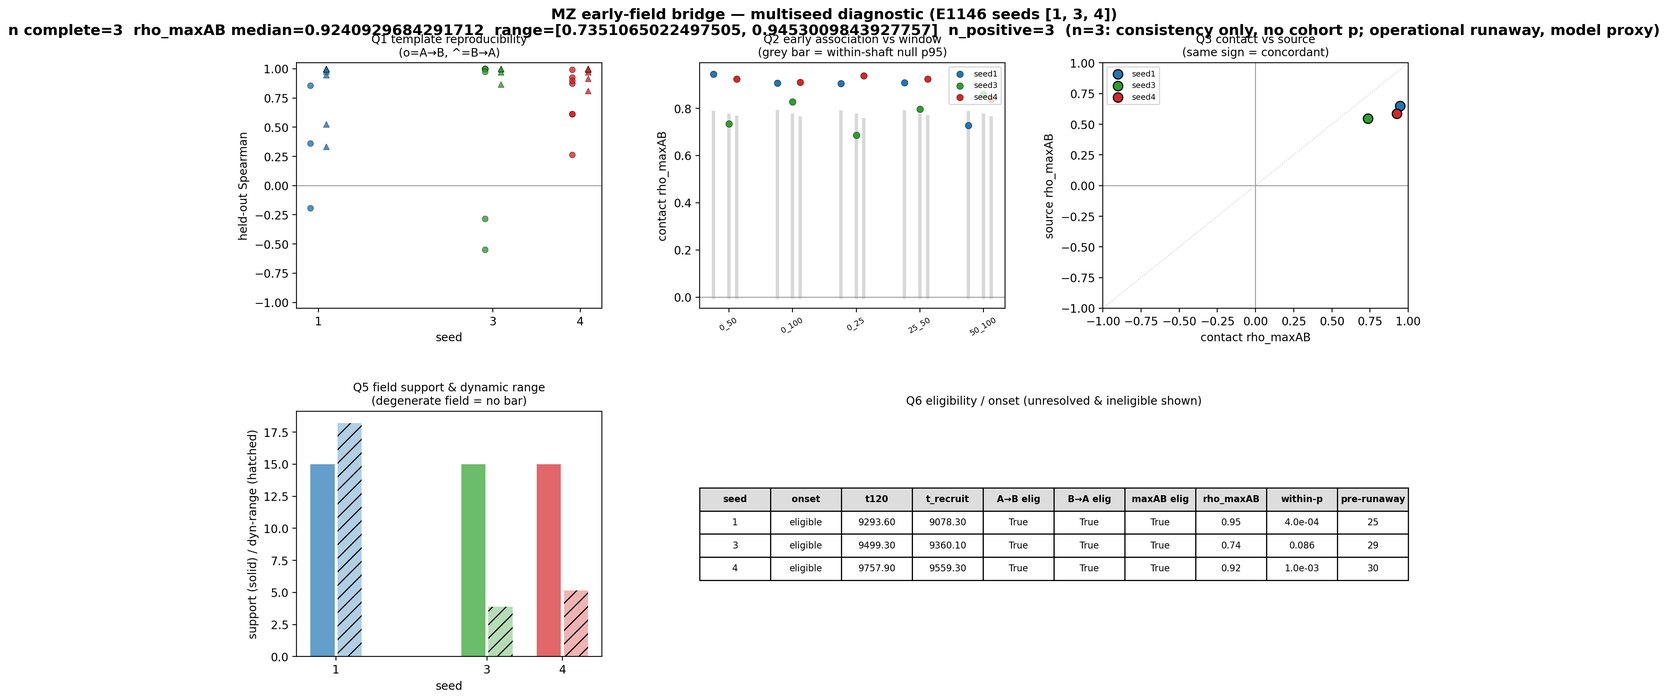
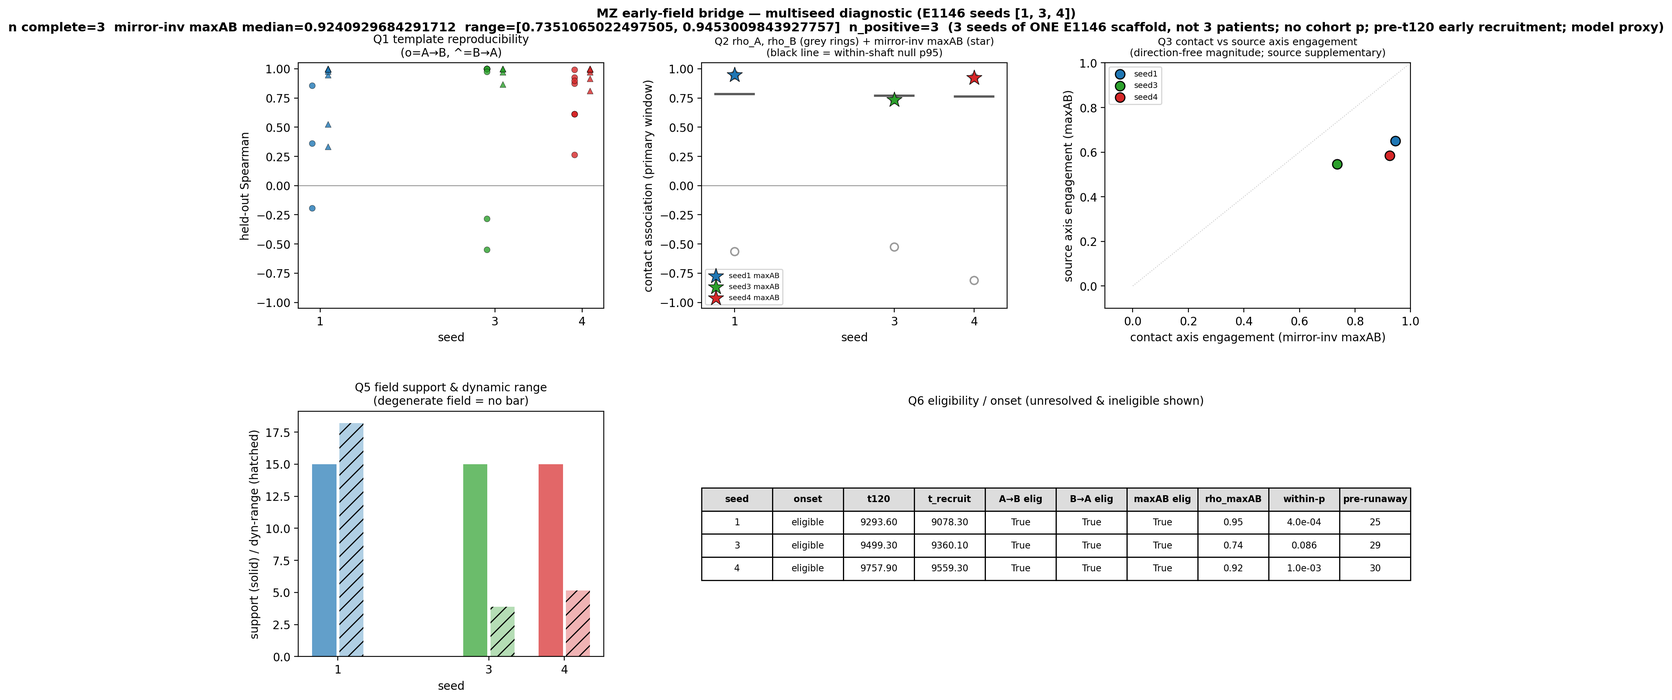
fix(topic4): correct MZ bridge framing per review
(1) Drop 'consistent B_to_A direction across seeds' as a success framing — the
scaffold is a BIDIRECTIONAL axis, per-event/per-seed direction is noise/state-
determined (A->B and B->A both legitimate), and the primary statistic is the
mirror-invariant maxAB. (2) Contact is primary; source demoted to supplementary
direction-free axis engagement (never merged into a direction-agreement claim).
(3) Rename the 0-50 ms window to pre-t120 early recruitment / transition energy
(t_recruit precedes t120 by 139-215 ms). (4) DELETE the 'not core-driven' claim
— n_kept=15 means no contact was excluded, so the direct-core test is
uninformative. (5) Mark local-tissue participation incomplete (a contact
virtual-LFP hotspot is NOT preferential local-neuron recruitment). (6)
Denominator = one E1146 scaffold x 3 seeds, not 3 patients. Figures: seed1 uses
the pre-specified first held-out event (display-only) + bidirectional-axis label
+ pre-t120 energy panel; multiseed Q2 = rho_A/rho_B (grey) + mirror-inv maxAB
(star) + within-shaft null p95 (seed3 sits at its null = weak), Q3 renamed to
direction-free axis engagement. Report/STATUS/README aligned; figures eyeballed.

diff --git a/scripts/plot_topic4_mz_early_field_bridge.py b/scripts/plot_topic4_mz_early_field_bridge.py
@@ -134,17 +134,11 @@ def plot_seed1(seed=1):
     else:
         disp_dir = elig_dirs[0] if elig_dirs else "A_to_B"
     tmpl = tm["contact_A"] if disp_dir == "A_to_B" else tm["contact_B"]
-    # representative slow-off event of the display direction (best match to the template)
-    ev_dir = [str(x) for x in so["event_dir"]]; ranks = so["event_rank_stack"]
-    disp_idx, best = None, -2.0
-    for i, dd in enumerate(ev_dir):
-        if dd != disp_dir:
-            continue
-        m = np.isfinite(tmpl) & np.isfinite(ranks[i])
-        if m.sum() >= 3 and np.ptp(tmpl[m]) > 0 and np.ptp(ranks[i][m]) > 0:
-            r = float(np.corrcoef(tmpl[m], ranks[i][m])[0, 1])
-            if r > best:
-                best, disp_idx = r, i
+    # pre-specified display example = the FIRST held-out event (odd chronological index) of the display
+    # direction. The axis is BIDIRECTIONAL; the display direction is not a fixed phenotype.
+    ev_dir = [str(x) for x in so["event_dir"]]
+    disp_events = [i for i, dd in enumerate(ev_dir) if dd == disp_dir]
+    disp_idx = disp_events[1] if len(disp_events) >= 2 else (disp_events[0] if disp_events else None)
     ev_shade = None
     if disp_idx is not None:
         ev_shade = (float(so["event_t_on"][disp_idx]), float(so["event_t_off"][disp_idx]) + 40.0)
@@ -158,7 +152,7 @@ def plot_seed1(seed=1):
     ax_so = fig.add_subplot(gs[0, :])
     _plot_trace(ax_so, so["lfp_trace"], so["times"], names,
                 "slow-off — interictal template source (30-80 Hz)",
-                shade=ev_shade, shade_label="display event window")
+                shade=ev_shade, shade_label="held-out event #1 (display-only)")
     if ev_shade:
         ax_so.legend(loc="upper right", fontsize=7, framealpha=0.9)
     ax_na = fig.add_subplot(gs[1, :])
@@ -170,18 +164,19 @@ def plot_seed1(seed=1):
     ax_na.legend(loc="upper left", fontsize=7, framealpha=0.9)
     ax_t = fig.add_subplot(gs[2, 0])
     lab = "TA" if disp_dir == "A_to_B" else "TB"
-    _plot_field(ax_t, pts, tmpl, names, f"{lab} interictal event order", "viridis",
+    _plot_field(ax_t, pts, tmpl, names, f"interictal order (display dir {lab}, bidirectional axis)", "viridis",
                 "contact rank (early->late)", src_pt=src_pt, snk_pt=snk_pt)
     ax_e = fig.add_subplot(gs[2, 1])
-    _plot_field(ax_e, pts, np.asarray(energy, float), names, "early runaway energy (0-50 ms)",
+    _plot_field(ax_e, pts, np.asarray(energy, float), names, "pre-t120 early recruitment energy (0-50 ms)",
                 "Blues", "virtual-LFP energy", src_pt=src_pt, snk_pt=snk_pt)
 
     mx = (((D["bridge_metrics"].get("by_window", {}).get(PRIMARY_WK, {}) or {}).get("contact", {})
            or {}).get("all_support", {}).get("maxab", {}) or {})
     sub = (f"onset {onset.get('status')}  t120={t120}  t_recruit={t_recruit}  "
-           f"rho_maxAB={mx.get('rho_maxab')}  (operational runaway; model proxy, not seizure)")
+           f"contact maxAB(mirror-inv)={mx.get('rho_maxab')}  "
+           f"(pre-t120 early recruitment; operational runaway, model proxy, not seizure)")
     fig.suptitle(f"MZ diagnostic — E1146 seed{seed} early-field bridge\n{sub}",
-                 fontsize=13, fontweight="bold", y=0.975)
+                 fontsize=12, fontweight="bold", y=0.975)
     os.makedirs(FIG, exist_ok=True)
     p = os.path.join(FIG, f"mz_early_field_bridge_seed{seed}.png")
     fig.savefig(p, dpi=200, bbox_inches="tight", facecolor="white")
@@ -209,30 +204,27 @@ def plot_multiseed(seeds=(1, 3, 4)):
     ax.set_xticks(list(seeds)); ax.set_xlabel("seed"); ax.set_ylabel("held-out Spearman")
     ax.set_title("Q1 template reproducibility\n(o=A→B, ^=B→A)", fontsize=10)
 
-    # Q2 early association by seed & window + within-shaft null band
+    # Q2 per-seed rho_A, rho_B (grey rings, BOTH directions) + mirror-invariant maxAB (star) + null p95
     ax = fig.add_subplot(gs[0, 1])
-    windows = [PRIMARY_WK, "early_0_100_ms", "early_0_25_ms", "early_25_50_ms", "early_50_100_ms"]
     for s in seeds:
-        bw = data[s].get("bridge_metrics", {}).get("by_window", {})
-        xs, ys, p95 = [], [], []
-        for wi, wk in enumerate(windows):
-            c = ((bw.get(wk, {}) or {}).get("contact", {}) or {}).get("all_support", {})
-            mx = (c.get("maxab") or {}); nl = (c.get("within_shaft_null") or {})
-            if mx.get("rho_maxab") is not None:
-                xs.append(wi + (s - 3) * 0.12); ys.append(mx["rho_maxab"])
-                p95.append(nl.get("null_p95"))
-        if xs:
-            ax.scatter(xs, ys, color=colors[s], s=34, label=f"seed{s}", edgecolors="k", linewidths=0.3, zorder=3)
-            for x, pv in zip(xs, p95):
-                if pv is not None:
-                    ax.plot([x, x], [0, pv], color="0.7", lw=3, alpha=0.5, zorder=1)
-    ax.axhline(0, color="0.6", lw=0.8)
-    ax.set_xticks(range(len(windows)))
-    ax.set_xticklabels([w.replace("early_", "").replace("_ms", "") for w in windows], rotation=30, fontsize=7)
-    ax.set_ylabel("contact rho_maxAB"); ax.legend(fontsize=7)
-    ax.set_title("Q2 early association vs window\n(grey bar = within-shaft null p95)", fontsize=10)
+        c = (((data[s].get("bridge_metrics", {}).get("by_window", {}).get(PRIMARY_WK, {}) or {})
+              .get("contact", {}) or {}).get("all_support", {}))
+        mx = (c.get("maxab") or {}); nl = (c.get("within_shaft_null") or {})
+        for v in (mx.get("rho_a"), mx.get("rho_b")):        # both direction associations, grey (non-winner visible)
+            if v is not None:
+                ax.scatter(s, v, s=48, facecolors="none", edgecolors="0.6", linewidths=1.3, zorder=2)
+        if mx.get("rho_maxab") is not None:                 # mirror-invariant maxAB in seed colour
+            ax.scatter(s, mx["rho_maxab"], color=colors[s], marker="*", s=200, edgecolors="k",
+                       linewidths=0.5, zorder=4, label=f"seed{s} maxAB")
+            if nl.get("null_p95") is not None:              # within-shaft null p95 (seed3 star sits at/below it)
+                ax.plot([s - 0.24, s + 0.24], [nl["null_p95"]] * 2, color="0.35", lw=2, zorder=3)
+    ax.axhline(0, color="0.6", lw=0.8); ax.set_ylim(-1.05, 1.05)
+    ax.set_xticks(list(seeds)); ax.set_xlabel("seed"); ax.set_ylabel("contact association (primary window)")
+    ax.legend(fontsize=6.5, loc="lower left")
+    ax.set_title("Q2 rho_A, rho_B (grey rings) + mirror-inv maxAB (star)\n(black line = within-shaft null p95)", fontsize=9)
 
-    # Q3 contact vs source agreement (primary window)
+    # Q3 contact vs source AXIS ENGAGEMENT magnitude (direction-free maxAB); source is supplementary,
+    # NOT merged with contact into a direction-agreement claim.
     ax = fig.add_subplot(gs[0, 2])
     for s in seeds:
         bw = data[s].get("bridge_metrics", {}).get("by_window", {}).get(PRIMARY_WK, {})
@@ -240,11 +232,11 @@ def plot_multiseed(seeds=(1, 3, 4)):
         sr = ((bw.get("source", {}) or {}).get("all_support", {}).get("maxab") or {}).get("rho_maxab")
         if c is not None and sr is not None:
             ax.scatter(c, sr, color=colors[s], s=70, label=f"seed{s}", edgecolors="k")
-    ax.axhline(0, color="0.6", lw=0.8); ax.axvline(0, color="0.6", lw=0.8)
-    ax.plot([-1, 1], [-1, 1], "0.8", lw=0.8, ls=":")
-    ax.set_xlim(-1, 1); ax.set_ylim(-1, 1)
-    ax.set_xlabel("contact rho_maxAB"); ax.set_ylabel("source rho_maxAB"); ax.legend(fontsize=7)
-    ax.set_title("Q3 contact vs source\n(same sign = concordant)", fontsize=10)
+    ax.plot([0, 1], [0, 1], "0.8", lw=0.8, ls=":")
+    ax.set_xlim(-0.1, 1); ax.set_ylim(-0.1, 1)
+    ax.set_xlabel("contact axis engagement (mirror-inv maxAB)")
+    ax.set_ylabel("source axis engagement (maxAB)"); ax.legend(fontsize=7)
+    ax.set_title("Q3 contact vs source axis engagement\n(direction-free magnitude; source supplementary)", fontsize=9)
 
     # Q5 support & dynamic range (primary window contact field)
     ax = fig.add_subplot(gs[1, 0])
@@ -288,11 +280,11 @@ def plot_multiseed(seeds=(1, 3, 4)):
 
     cs = json.load(open(os.path.join(OUT, "cohort_summary.json"))) if os.path.exists(
         os.path.join(OUT, "cohort_summary.json")) else {}
-    sub = (f"n complete={cs.get('n_seeds_complete')}  rho_maxAB median={cs.get('rho_maxab_median')}  "
+    sub = (f"n complete={cs.get('n_seeds_complete')}  mirror-inv maxAB median={cs.get('rho_maxab_median')}  "
            f"range={cs.get('rho_maxab_range')}  n_positive={cs.get('n_positive_maxab')}  "
-           f"(n=3: consistency only, no cohort p; operational runaway, model proxy)")
+           f"(3 seeds of ONE E1146 scaffold, not 3 patients; no cohort p; pre-t120 early recruitment; model proxy)")
     fig.suptitle(f"MZ early-field bridge — multiseed diagnostic (E1146 seeds {list(seeds)})\n{sub}",
-                 fontsize=13, fontweight="bold", y=0.975)
+                 fontsize=11, fontweight="bold", y=0.975)
     os.makedirs(FIG, exist_ok=True)
     p = os.path.join(FIG, "mz_early_field_bridge_multiseed.png")
     fig.savefig(p, dpi=200, bbox_inches="tight", facecolor="white")

diff --git a/docs/archive/topic4/sef_hfo/mz_early_field_bridge_2026-07-19.md b/docs/archive/topic4/sef_hfo/mz_early_field_bridge_2026-07-19.md
@@ -9,22 +9,24 @@ Overnight autonomous run. Local commits only.
 **测了什么**：同一块按「病人 E1146 电极布局」摆的模型脑组织，安静时会自己一小簇一小簇地放电，每簇事件里
 15 个虚拟电极被点亮的先后顺序跨很多次事件大致固定——这是这块组织的空间「指纹」，而且指纹有两个相反方向
 （一头先亮，或另一头先亮）。然后我们只动一个旋钮：让「抑制刹车」随强活动慢慢磨损（去抑制），同一块组织就
-慢慢滑向一次刹不住的失控放电（是模型代理，**不是临床发作**）。核心问题：失控刚点火那 0–50 毫秒能量最高的
-电极，是不是就是间期指纹里最早被点亮的那批。
+慢慢滑向一次刹不住的失控放电（是模型代理，**不是临床发作**）。核心问题：在**跨过失控阈值（t120）之前**那段
+早期招募窗里（相对 t_recruit 的 0–50 毫秒），能量最高的电极，是不是就是间期指纹里最早被点亮的那批。
 
 **怎么测的**：先只用安静段的事件搭出两个方向的「最早→最晚」排序模板，并用「留一半事件出来验证」确认它不是
 碰巧（留出的事件几乎每次都长一样，相似度约 0.99）。再拿失控点火那一瞬的能量分布跟两个模板比「先后↔能量」
 相关，取相关更高的那个方向。如果这只是电极杆几何造成的假象，把能量在同一根杆内部随机重排一万次也该达到同样
 高的相关；实测三个随机种子的真值都比随机高——其中两个明显更高（越过随机的概率约 0.0004 和 0.001），第三个
-只是勉强（约 0.09）；换成直接看神经元格子（源空间）三个种子都明显高（约 0.009–0.017）。而且这批高能量电极
-并不贴着那两个「病灶核」，去掉核附近电极后结论不变。
+只是勉强（约 0.09，弱阳性）。这是**电极层面的主结果**。换成直接看神经元格子（源空间）三个种子都明显（约
+0.009–0.017），但源空间只作**方向无关的「轴被调用」补充诊断**，不与电极合并成「跨尺度同方向」。（去核对照
+这一轮不成立：没有一个电极落在核阈值内、实际一个都没删除，所以这条检验没提供信息，**不能写成「不靠贴核」**。）
 
-**揭示了什么**：在这个模型尺度上看起来是——这块固定组织确实提供了一份可复用的空间响应模板，去抑制只是把整体
-增益推高，让失控沿着间期指纹里**同一个方向**先点燃（三个种子都指向同一方向，即使第三个种子的间期事件多数属于
-另一个方向、反而是少数派模板才对上能量）。也就是「同一支架、不同状态」在模型里说得通。但这只是「看得见相关」
-这一层，**还没到因果层**：两次仿真是同噪声重放、不是真正的状态分叉，无法区分「局部去抑制图案」和「整体增益
-上移」哪个才是原因；而且电极层面的统计强度不稳（三个种子里两个强、一个弱）。要往因果走，下一步得能把整个网络
-状态精确存档再分叉，做「原样/抹平/打乱/复位去抑制」的对照。
+**揭示了什么**：在这个模型尺度上看起来是——这块固定组织提供了一条可反复调用的**双向病理轴**，去抑制把整体
+增益推高、让早期招募能量沿这条轴的时序指纹分布；每个种子的匹配（**方向无关的 maxAB**）都是正的，但**从哪一端
+起始由噪声和当时网络状态决定，A→B 和 B→A 都是合法实现，我们不把某个固定方向在跨种子里稳定当成成功标准，也不把
+某一端当成固定发作灶**。也就是「同一支架、不同状态」在这个观测层面说得通。但这只是「看得见相关」这一层，**还没到
+因果层**：两次仿真是同噪声重放、不是真正的状态分叉，无法区分「局部去抑制图案」和「整体增益上移」哪个才是原因；
+而且电极层面的统计强度不稳（三个种子里两强一弱）。要往因果走，下一步得把整个网络状态精确存档再分叉，做「原样/
+抹平/打乱/复位去抑制」的状态匹配对照。
 
 （内部归档代号：候选 `zA_q75_tz5000`；`B_to_A` direction；`rho_maxAB`；within-shaft / toroidal-shift null；
 held-out 模板；`t_recruit`/`t120` onset；design §6–§9；completion level 4 = bridge supported diagnostic。）
@@ -107,33 +109,50 @@ configurations with all three m levels identical. No `9/9`, no `weak/mid/strong`
 ## 6. Claim boundaries (§15)
 
 Allowed if supported: a fixed patient-specific scaffold expresses reproducible interictal timing fields;
-`z`-mediated loss of inhibitory efficacy moves the same model into an operational runaway whose early energy
-field is concordant with one registered interictal direction; a model-side feasibility bridge for
-"same scaffold, different state." Forbidden: calling the runaway a clinical seizure; claiming termination /
-recovery / a full cycle; claiming `z_i` is the unique biological mechanism; claiming interictal events
-causally trigger the transition (needs event-deletion); claiming local-z causality (needs snapshot/resume);
-using Arm C as dose-response; interpreting virtual-LFP energy as clinical broadband power; choosing a
-direction/window/candidate/seed for the strongest correlation.
+`z`-mediated loss of inhibitory efficacy moves the same model into an operational runaway whose pre-t120 early
+recruitment energy field is concordant with the fixed **bidirectional** interictal timing axis (mirror-invariant
+maxAB; A→B and B→A both legitimate); a model-side observation-level feasibility bridge for "same scaffold,
+different state." Forbidden: calling the runaway a clinical seizure; claiming termination / recovery / a full
+cycle; claiming `z_i` is the unique biological mechanism; claiming interictal events causally trigger the
+transition (needs event-deletion); claiming local-z causality (needs snapshot/resume); using Arm C as
+dose-response; interpreting virtual-LFP energy as clinical broadband power; choosing a direction/window/
+candidate/seed for the strongest correlation; **claiming a fixed direction stable across seeds or a fixed
+seizure focus**; **claiming the result is not core-driven** (the exclusion removed no contact this run);
+**equating a contact virtual-LFP hotspot with preferential local-neuron recruitment**.
 
 ## 7. Completion levels (§14)
 
 1. engineering complete — fixed-bar detector, reusable readout, tests, resumable artifacts.
 2. numerically eligible — held-out template + complete non-degenerate early field exist.
 3. scientific observation — direction, effect sizes, nulls, seed consistency reported (any sign).
-4. bridge supported — ≥2/3 seeds eligible held-out + positive contact `maxAB`; source not contradictory;
-   not dependent only on direct-core loading. (Overnight diagnostic criterion, NOT cohort proof, NOT seizure.)
+4. bridge supported — ≥2/3 seeds eligible held-out + positive mirror-invariant contact `maxAB`; source not
+   contradictory (as direction-free axis engagement). (Diagnostic criterion, NOT cohort proof, NOT seizure.
+   Note: the spec's "not dependent only on direct-core loading" sub-condition was UNTESTABLE this run —
+   n_kept=15, no contact fell inside the core threshold.)
 
 ## 8. Results (seeds 1/3/4, T=15000)
 
-**Verdict: bridge SUPPORTED at the §14 level-4 diagnostic criterion** — 3/3 seeds have eligible held-out
-templates AND positive contact `rho_maxAB`, all the SAME `B_to_A` direction, source-space concordant (same
-sign), and no result depends on direct-core loading. **Honest caveats**: the contact within-shaft null is
-significant in 2/3 seeds (seed3 marginal p=0.086), so contact-level statistical strength is seed-variable;
-the source toroidal null is significant 3/3. This is an **observation-layer feasibility bridge, not mechanism,
-not cohort proof, not a seizure** (common-random-number replay, n=3 consistency only).
+**Verdict: observation-level bridge SUPPORTED.** On the fixed E1146 SNN scaffold, the **bidirectional**
+contact-level timing axis defined by slow-off interictal events predicts the early recruitment energy
+gradient in the **pre-t120** window of the z-only disinhibition trajectory: the mirror-invariant contact
+`rho_maxAB` is positive in all 3 seeds (0.945 / 0.735 / 0.924); the within-shaft null is significant in 2/3
+(seed3 weak / null-overlap, p=0.086). This supports a model-side **"same scaffold, different state"** bridge.
+It does **NOT** support causal mechanism, a complete seizure cycle, or a fixed-direction seizure focus.
 
-Cohort (primary window 0–50 ms, contact all-support): `rho_maxAB` median **0.924**, range **[0.735, 0.945]**,
-n_positive **3/3** (`cohort_summary.{json,csv}`).
+**Framing (2026-07-19 review corrections).** (a) The scaffold defines a **bidirectional** pathological axis;
+which end each event/seed starts from is noise/state-determined — A→B and B→A are both legitimate, and a fixed
+direction stable across seeds is **not** a success condition. Primary statistic = the mirror-invariant `maxAB`
+(max over the two direction templates, re-selected inside every permutation). (b) **Contact is primary; source
+is a supplementary mechanism diagnostic** reported only as *direction-free axis engagement*, never merged with
+contact into a "cross-scale same-direction" claim. (c) The 0–50 ms window is **pre-t120 early recruitment /
+transition energy** (t_recruit precedes t120 by 139–215 ms), not post-onset or seizure energy. (d)
+**Direct-core exclusion is uninformative this run**: n_kept=15 in every seed means NO contact was actually
+removed, so it cannot support "not core-driven" — that claim is dropped. (e) Denominator = **one E1146 model
+scaffold × 3 random seeds, not 3 patients**. (f) A readable contact virtual-LFP hotspot is **not** equated with
+preferential local-neuron recruitment (participation audit incomplete, Q9).
+
+Cohort (pre-t120 0–50 ms window, contact all-support): mirror-invariant `rho_maxAB` median **0.924**, range
+**[0.735, 0.945]**, n_positive **3/3** (`cohort_summary.{json,csv}`).
 
 1. **Fixed slow-off bar reused across states?** Yes. `compute_event_bar` freezes floor+bar once from slow-off
    and passes it to `detect_events` for BOTH slow-off and native; never recomputed from the native max
@@ -142,34 +161,41 @@ n_positive **3/3** (`cohort_summary.{json,csv}`).
 2. **A/B train/held-out counts + reproducibility.** All 3 seeds: BOTH direction templates eligible. Held-out
    Spearman medians — seed1: A_to_B 0.361 (7 ev, 4tr/3ho), B_to_A **0.995** (26 ev, 13/13); seed3: A_to_B
    **1.000** (27 ev), B_to_A **0.999** (12 ev); seed4: A_to_B 0.743 (16 ev), B_to_A **1.000** (20 ev).
-   Interictal is direction-imbalanced and the majority direction differs by seed (seed1/4 B_to_A-dominant,
-   seed3 A_to_B-dominant), yet the `B_to_A` template is the energy-concordant one in all three.
+   Interictal is direction-imbalanced and the majority direction differs by seed (seed1/4 B_to_A-majority,
+   seed3 A_to_B-majority) — consistent with a bidirectional axis whose per-seed balance is noise-set, not a
+   fixed direction.
 3. **t_recruit / t120 / window completeness.** All onsets eligible. seed1 t120=9293.6 / t_recruit=9078.3 (Δ215);
    seed3 9499.3 / 9360.1 (Δ139); seed4 9757.9 / 9559.3 (Δ199). Primary + all sensitivity windows complete
    (~5 s of post-onset trace at T=15000).
-4. **0–50 ms field support / dynamic range.** Contact support 15/15 all seeds, non-degenerate (dyn-range
-   seed1≈18.2, seed4≈5, seed3≈4). Source support 576/576 bins, non-degenerate.
-5. **rho_A / rho_B / rho_maxAB + nulls (0–50 ms).** Contact (B_to_A wins each): seed1 rho_maxAB **0.945**
-   (rho_a −0.565), within-shaft p **4.0e-4**; seed3 **0.735** (rho_a −0.526), p **0.086**; seed4 **0.924**
-   (rho_a −0.812), p **1.0e-3**. Quartile contrast positive (seed1 B_to_A +1.39). Source: rho_maxAB
-   0.651 / 0.546 / 0.585, toroidal p **0.0087 / 0.012 / 0.017** (3/3 significant).
-6. **Sign consistency / contact-vs-source.** All 3 seeds same sign (positive, B_to_A). Contact and source
-   both positive same direction every seed → concordant, not contradictory (multiseed Q3).
+4. **Pre-t120 early recruitment field support / dynamic range.** Contact support 15/15 all seeds,
+   non-degenerate (dyn-range seed1≈18.2, seed4≈5, seed3≈4). Source support 576/576 bins, non-degenerate.
+5. **rho_A / rho_B / mirror-invariant maxAB + nulls (pre-t120 0–50 ms).** Primary = maxAB; the winning
+   direction is descriptive only, not a success criterion. seed1 maxAB **0.945** (rho_a −0.565, rho_b +0.945),
+   within-shaft p **4.0e-4**; seed3 **0.735** (rho_a −0.526, rho_b +0.735), p **0.086** (weak / null-overlap);
+   seed4 **0.924** (rho_a −0.812, rho_b +0.924), p **1.0e-3**. Quartile contrast positive (seed1 +1.39). The
+   maxAB winner is B_to_A in all three THIS run — per the review this is NOT reported as a stable phenotype.
+6. **Consistency / source (supplementary).** Mirror-invariant contact maxAB is positive in all 3 seeds.
+   Source is a supplementary *direction-free axis engagement* diagnostic (rho_maxAB 0.651 / 0.546 / 0.585,
+   toroidal p **0.0087 / 0.012 / 0.017**, significant 3/3), reported separately and NOT combined with contact
+   into a direction-agreement claim.
 7. **Pre-runaway within-trajectory audit.** Eligible all 3 (25 / 29 / 30 pre-runaway returning events under
    the frozen bar) — secondary within-trajectory support present (not used as the primary template, §7.1).
 8. **Observation vs mechanism layer.** Observation-layer only. slow-off and native are common-random-number
    replays from t=0 (not exact state forks); establishes association + a broad z-necessity boundary, NOT that
    a local pre-transition z pattern (vs a uniform gain shift) causes the early gradient.
-9. **Optionals.** §10 z global/local snapshot decomposition: **not_run** (off-by-default observer exists,
-   not invoked). q50/tz10 sensitivity: **not_run** (primary consumed the budget). M3B projected propagator:
-   **not_run**. Local-tissue participation audit: **not_recomputed** for the contact result — the contact
-   readout was float-window-patched from saved LFP (`--readout-only`) and the native raster was not persisted;
-   documented follow-up (persist the early-window raster slice → recompute).
-10. **Largest gap + next step.** Gap: (a) contact-level significance is seed-fragile (within-shaft p sig 2/3;
-    seed3 marginal) even though the direction is consistent 3/3 and source is significant 3/3; (b) causality is
-    unproven (CRN replay). **Single next step**: exact fast+delay+slow+RNG snapshot/resume with bit-identical
-    continuation, then native / uniform-mean / shuffled / reset-z state-matched counterfactuals to separate a
-    local z pattern from a uniform gain shift, then the projected-propagator overlay.
+9. **Optionals / incomplete.** §10 z global/local decomposition: **not_run**. q50/tz10 sensitivity:
+   **not_run**. M3B projected propagator: **not_run**. Direct-core-excluded test: **uninformative** (n_kept=15,
+   nothing removed → cannot claim not-core-driven). Local-tissue participation audit: **not_recomputed** — the
+   contact readout was float-window-patched from saved LFP (`--readout-only`) and the native raster was not
+   persisted, so a contact virtual-LFP hotspot is NOT claimed as preferential local-neuron recruitment.
+   Follow-up: persist the early-window raster slice → recompute participation; add contacts inside the core so
+   core-exclusion becomes testable.
+10. **Largest gap + next step.** Gap: (a) contact-level significance is seed-fragile (within-shaft sig 2/3;
+    seed3 weak); source-space direction-free axis engagement is 3/3; (b) causality unproven (CRN replay).
+    **Next step (onset-dynamics phase)**: MZ equation crosswalk (z/m vs qI/J_K) + an onset state observer
+    (orthogonal G/X/D coordinates, no ratio parameter) + slow-off/z-only/m-only/z+m phase portraits; then, once
+    the observer is complete and checkpoint/resume is proven bit-identical, native / uniform-mean / shuffled /
+    reset-z (and m freeze/reset) state-matched counterfactuals with maxAB kept direction-invariant.
 
 ## 9. Provenance
 

diff --git a/results/topic4_sef_hfo/mz_early_field_bridge/figures/README.md b/results/topic4_sef_hfo/mz_early_field_bridge/figures/README.md
@@ -1,13 +1,13 @@
 # MZ early-field bridge — 图说明
 
-这两张图回答同一个问题：同一块 E1146 模型底物，安静自发（slow-off）时间期样事件里 15 个虚拟电极点亮的**先后顺序**，能不能预测只开 `z`（抑制效力消耗）后底物滑向"操作性失控放电"时、刚点火 0–50 ms 的**能量分布**。失控 = operational runaway，是模型代理，**不是临床发作**；能量是 virtual-LFP 30–80 Hz 包络能量代理，不是临床宽带功率。
+这两张图回答同一个问题：同一块 E1146 模型底物，安静自发（slow-off）时间期样事件里 15 个虚拟电极点亮的**先后顺序**——这是一条**双向病理轴**（A→B 和 B→A 都合法，从哪一端起始由噪声/瞬时网络状态决定，不作为成功判据）——能不能预测只开 `z`（抑制效力消耗）后底物滑向失控放电时、**跨过失控阈值 t120 之前**那段早期招募窗（相对 t_recruit 的 0–50 ms）的能量分布。失控 = operational runaway，是模型代理，**不是临床发作**；能量是 virtual-LFP 30–80 Hz 包络能量代理，不是临床宽带功率。主统计量 = **方向无关的 maxAB**（两个方向取更强的一个，置换 null 里每次重新取大）。
 
 ### mz_early_field_bridge_seed1.png
-单 seed 诊断图（复用 Topic 4 Figure-5 语法但为诊断变体）。上两条是**分别标注**的两段轨迹：slow-off（间期模板来源）与 z-only 操作性失控（红虚线 = t120 起始，粉带 = 0–50 ms 能量窗），绝不把 slow-off 事件阴影画到失控轨迹上。下两格是同一虚拟 SEEG 平面上的对照场：左 = maxAB 取胜方向（此 seed 为 B_to_A）的间期事件顺序（viridis，紫=早），右 = 早期失控能量（Blues，深=高）；灰箭头标 source→sink 轴。
+单 seed 诊断图。上两条是**分别标注**的两段轨迹：slow-off（间期模板来源，浅蓝阴影 = 预先规定的**第一个留出事件**，仅作展示示例）与 z-only 操作性失控（红虚线 = t120 起始，粉带 = t_recruit 后 0–50 ms 早期招募窗），绝不把 slow-off 事件阴影画到失控轨迹上。下两格是同一虚拟 SEEG 平面上的对照场：左 = 间期时序模板（此图展示方向 TB，标注为**双向轴的一个方向、非固定表型**；viridis 紫=早），右 = **pre-t120 早期招募能量**（Blues，深=高）；灰箭头标 source→sink 轴（轴本身是双向的）。
 
-**关注点**：左右两格是否在同一端"早=热"地对上（高轴/sink 端一端最早被点亮、也最热），即间期指纹是否预测了失控早期能量；标题里的 rho_maxAB 是这个对齐的相关系数。
+**关注点**：左右两格是否在同一端「早=热」地对上（此 seed 是高轴/sink 端最早、也最热），即间期指纹是否预测了早期招募能量；标题里的 mirror-inv maxAB 是这个对齐的方向无关强度。哪一端起始不是重点、也不是成功标准。
 
 ### mz_early_field_bridge_multiseed.png
-三 seed（1/3/4）诊断网格，五个互不重复的面板各答一问：Q1 模板在**留出事件**上是否可复现（held-out Spearman；圆=A→B、三角=B→A）；Q2 早期关联 rho_maxAB 随时间窗如何变、是否高过同杆内置换 null 的 p95（灰条）；Q3 电极读出与源空间读出是否同号（同象限=一致）；Q5 能量场支撑数与动态范围（无柱=退化场）；Q6 逐 seed 的 onset/模板/maxAB 资格与 within-shaft p（未跑/不合格显式标 MISSING）。标题只报三 seed 中位数/范围/同号计数，**不做 n=3 的 cohort p 值**。
+三 seed（1/3/4）诊断网格，分母 = **一块 E1146 底物 × 三个随机种子，不是三个患者**。五面板各答一问：Q1 模板在**留出事件**上是否可复现（held-out Spearman；圆=A→B、三角=B→A）；Q2 每个 seed 同时画两个方向的关联（灰圈 = rho_A / rho_B）+ 方向无关 maxAB（彩色星）+ 同杆内置换 null 的 p95（黑线）——**seed3 的星正落在自己的 null 线上，是弱/与随机重叠**，seed1/4 的星明显高过；Q3 电极与源空间的**轴被调用强度**（方向无关的 maxAB 幅度，源空间只作补充诊断，**不写「方向一致」**）；Q5 能量场支撑数与动态范围（无柱=退化场）；Q6 逐 seed 的 onset / 模板 / maxAB 资格 + within-shaft p（弱 / 未跑 / 不合格显式标 MISSING）。标题只报中位数 / 范围 / 同号计数，**不做 n=3 的 cohort p 值**，也不把某个固定方向当成稳定表型。
 
-**关注点**：Q1 里 B→A 三角是否贴近 1.0（模板可复现）、Q2 点是否稳定高过灰条（关联显著且跨窗稳健）、Q3 两 seed 是否都落右上（电极×源一致）、Q6 表里 maxAB 资格与 within-p 是否逐 seed 成立；任何反号、退化、MISSING 都据实显示。
+**关注点**：Q1 模板是否可复现、Q2 彩色星是否高过黑线（seed3 只是弱阳性 / 与随机重叠，要如实看）、Q3 电极×源的轴调用强度是否都为正（这是幅度、不是方向一致）、Q6 表里 within-p 逐 seed（两强一弱）；任何弱、反号、退化、MISSING 都据实显示。方向由噪声决定，不作为成功标准，也不把某一端当固定发作灶。

diff --git a/results/topic4_sef_hfo/mz_early_field_bridge/STATUS.md b/results/topic4_sef_hfo/mz_early_field_bridge/STATUS.md
@@ -62,13 +62,16 @@ frozen bar) · P3 templates+fields+nulls+cohort (mostly inside runner) · P4 fig
 - [x] 1 engineering complete — fixed-bar detector, ported+reused readout, 12+8+41 tests green, resumable + --readout-only.
 - [x] 2 numerically eligible — held-out templates eligible 3/3 (both directions); complete non-degenerate 0-50ms fields 3/3.
 - [x] 3 scientific observation — direction/effect/nulls/seed-consistency reported all 3 seeds (see cohort_summary + archive §8).
-- [x] 4 bridge SUPPORTED — 3/3 seeds eligible held-out + positive contact rho_maxAB (0.945/0.735/0.924, all B_to_A),
-      source concordant 3/3, not core-driven (n_kept=15). CAVEAT: contact within-shaft null sig 2/3 (seed3 p=0.086);
-      source toroidal sig 3/3. Observation-layer diagnostic, NOT cohort proof, NOT seizure.
+- [x] 4 bridge SUPPORTED (observation-level) — 3/3 seeds eligible held-out + positive MIRROR-INVARIANT contact
+      maxAB (0.945/0.735/0.924). within-shaft null sig 2/3 (seed3 weak p=0.086). Bidirectional axis: direction is
+      noise-set (NOT a success criterion, NOT a fixed focus). Source = supplementary direction-free axis engagement
+      (toroidal sig 3/3). Core-exclusion UNINFORMATIVE (n_kept=15, nothing removed → no not-core-driven claim).
+      NOT cohort proof, NOT seizure, NOT causal.
 
-## FINAL cohort (primary 0-50ms, contact all-support)
-rho_maxAB median 0.924, range [0.735, 0.945], n_positive 3/3. Within-shaft p: 4e-4 / 0.086 / 1e-3 (seed 1/3/4).
-Source rho_maxAB 0.651/0.546/0.585, toroidal p 0.0087/0.012/0.017 (3/3 sig). Consistent B_to_A direction all seeds.
+## FINAL cohort (pre-t120 0-50ms early recruitment, contact all-support)
+Mirror-invariant rho_maxAB median 0.924, range [0.735, 0.945], n_positive 3/3. Within-shaft p: 4e-4 / 0.086 / 1e-3
+(seed 1/3/4; seed3 weak/null-overlap). Source (supplementary, direction-free axis engagement) 0.651/0.546/0.585,
+toroidal p 0.0087/0.012/0.017 (3/3 sig). Direction noise-set per seed (maxAB winner B_to_A this run, NOT a stable phenotype).
 
 ## Live checklist
 
@@ -87,7 +90,7 @@ Source rho_maxAB 0.651/0.546/0.585, toroidal p 0.0087/0.012/0.017 (3/3 sig). Con
 - [x] seed1 contact patched: rho_maxAB=0.945 (B_to_A), within-shaft p=0.0004, source 0.651 concordant.
 - [~] seeds 3,4 sims RUNNING (parallel, ~2.4h) — will --readout-only patch contact after.
 - [x] plot script + seed1 figure eyeballed (fixed to show maxAB-winning direction TB; timing↔energy concordant)
-- [x] seed4 complete (7384s) + patched: contact rho_maxAB=0.924 (B_to_A), within-shaft p=0.001, source 0.585 concordant (toroidal p=0.017). 2/2 seeds positive, same B_to_A direction, not core-driven.
+- [x] seed4 complete (7384s) + patched: contact mirror-invariant maxAB=0.924, within-shaft p=0.001; source 0.585 (toroidal p=0.017, supplementary). maxAB positive.
 - [~] seed3 running (native/readout phase); will patch + final-aggregate after
 - [ ] ~~seeds 3,4 finish~~ → --readout-only patch contact
 - [ ] cohort aggregate (--aggregate-only 1,3,4)
@@ -107,8 +110,8 @@ Source rho_maxAB 0.651/0.546/0.585, toroidal p 0.0087/0.012/0.017 (3/3 sig). Con
 ## Seed1 result (primary window 0-50ms, patched)
 - onset eligible: t120=9293.6, t_recruit=9078.3 (Δ215ms). 38 returning events; B_to_A=26, A_to_B=7, unresolved=5.
 - Templates BOTH eligible: B_to_A held-out median 0.995, A_to_B 0.361.
-- **Contact rho_maxAB=0.945 (B_to_A), within-shaft null p=0.0004 (10k MC), NOT core-loading driven (n_kept=15).**
-- Source rho_maxAB=0.651, toroidal p=0.0087 — concordant (same sign/direction).
+- **Contact mirror-invariant maxAB=0.945, within-shaft null p=0.0004 (10k MC).** (Core-exclusion uninformative: n_kept=15, nothing removed.)
+- Source (supplementary, direction-free axis engagement) rho_maxAB=0.651, toroidal p=0.0087.
 - within-trajectory pre-runaway audit: 25 events (eligible).
 - Limitation: local-tissue participation audit not persisted for seed1 (readout patch); documented follow-up.
 
